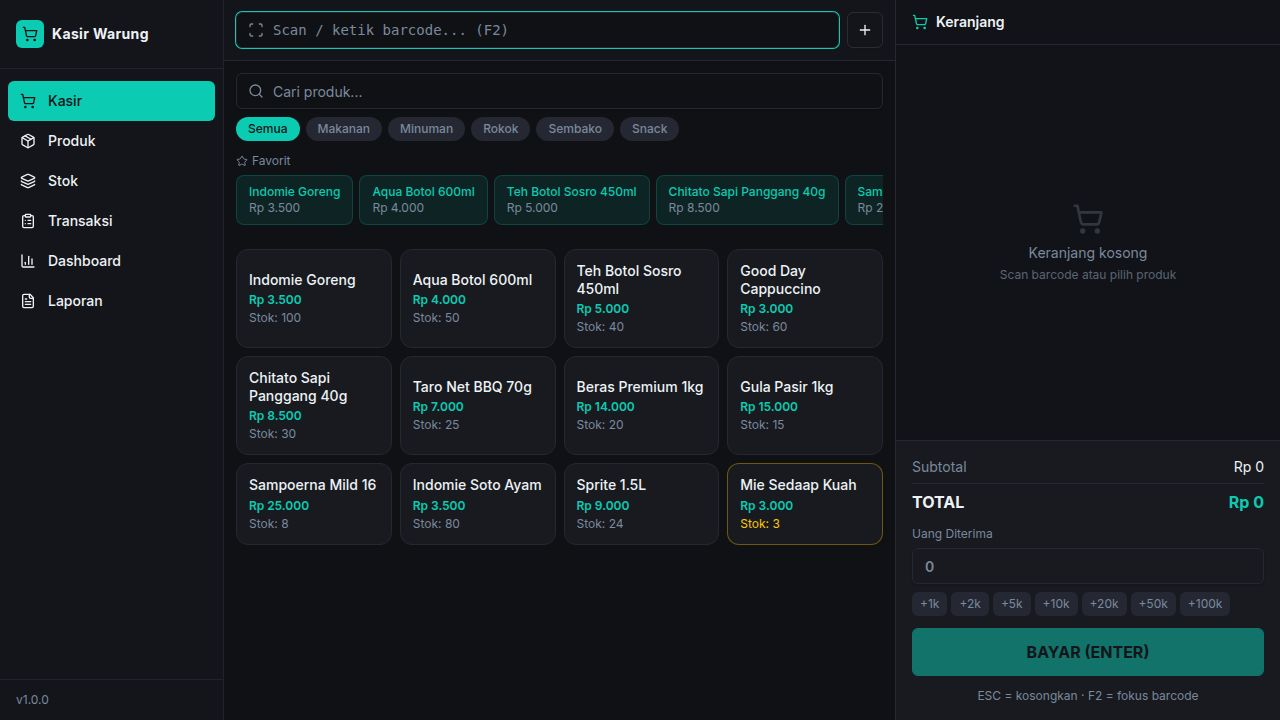
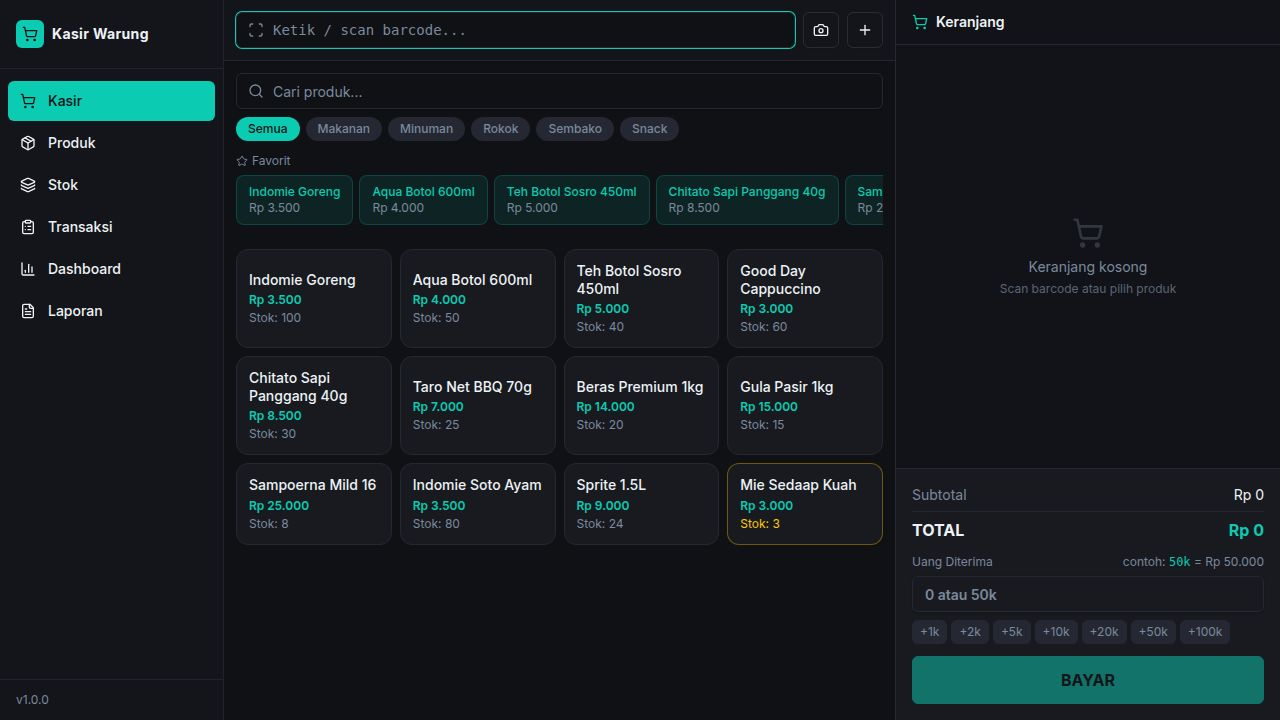
Improve camera permission handling for barcode scanner
Introduce a new "permission" phase to prompt users for camera access before attempting to open the camera, enhancing user experience and resolving issues with the permission dialog not appearing.

Replit-Commit-Author: Agent
Replit-Commit-Session-Id: a1ce3a82-6473-4853-bd8a-2a7796b66f26
Replit-Commit-Checkpoint-Type: full_checkpoint
Replit-Commit-Event-Id: 70f1645a-78cc-4b64-8d3c-5172f48297da
Replit-Commit-Screenshot-Url: https://storage.googleapis.com/screenshot-production-us-central1/b5225972-dac7-4cce-bdec-5e17aa14c93a/a1ce3a82-6473-4853-bd8a-2a7796b66f26/zLTc4fO
Replit-Helium-Checkpoint-Created: true

diff --git a/artifacts/kasir-warung/src/components/BarcodeScanner.tsx b/artifacts/kasir-warung/src/components/BarcodeScanner.tsx
@@ -1,6 +1,6 @@
 import { useEffect, useRef, useState, useCallback } from "react";
 import { BrowserMultiFormatReader } from "@zxing/browser";
-import { X, Camera, Loader2, AlertCircle, RefreshCw } from "lucide-react";
+import { X, Camera, Loader2, AlertCircle, RefreshCw, ShieldCheck } from "lucide-react";
 import { Dialog, DialogContent } from "@/components/ui/dialog";
 import { Button } from "@/components/ui/button";
 
@@ -11,12 +11,14 @@ interface BarcodeScannerProps {
   title?: string;
 }
 
+type Phase = "permission" | "loading" | "ready" | "error";
+
 export function BarcodeScanner({ open, onScan, onClose, title = "Scan Barcode" }: BarcodeScannerProps) {
   const videoRef = useRef<HTMLVideoElement>(null);
   const readerRef = useRef<BrowserMultiFormatReader | null>(null);
   const scannedRef = useRef(false);
   const mountedRef = useRef(false);
-  const [status, setStatus] = useState<"loading" | "ready" | "error">("loading");
+  const [phase, setPhase] = useState<Phase>("permission");
   const [errorMsg, setErrorMsg] = useState("");
 
   const cleanup = useCallback(() => {
@@ -27,25 +29,27 @@ export function BarcodeScanner({ open, onScan, onClose, title = "Scan Barcode" }
   const startScanner = useCallback(async () => {
     if (!videoRef.current || !mountedRef.current) return;
     scannedRef.current = false;
-    setStatus("loading");
+    setPhase("loading");
     setErrorMsg("");
 
     try {
       const reader = new BrowserMultiFormatReader();
       readerRef.current = reader;
 
-      // Listen for video playing event — most reliable "ready" signal on Android
       const video = videoRef.current;
-      const onPlaying = () => {
-        if (mountedRef.current) setStatus("ready");
-      };
-      video.addEventListener("playing", onPlaying, { once: true });
-      // Fallback: force ready after 4s even if playing event doesn't fire
-      const readyTimer = setTimeout(() => {
-        if (mountedRef.current) setStatus("ready");
-      }, 4000);
 
-      // Let ZXing handle getUserMedia — use decodeFromConstraints for better mobile compat
+      // Transition to ready as soon as video has data
+      const onCanPlay = () => {
+        if (mountedRef.current) setPhase("ready");
+      };
+      video.addEventListener("canplay", onCanPlay, { once: true });
+      video.addEventListener("playing", onCanPlay, { once: true });
+
+      // Fallback: force ready after 3s
+      const readyTimer = setTimeout(() => {
+        if (mountedRef.current) setPhase("ready");
+      }, 3000);
+
       await reader.decodeFromConstraints(
         {
           video: {
@@ -64,18 +68,15 @@ export function BarcodeScanner({ open, onScan, onClose, title = "Scan Barcode" }
             scannedRef.current = true;
             controls?.stop();
             clearTimeout(readyTimer);
-            const code = result.getText();
-            onScan(code);
+            onScan(result.getText());
             onClose();
           }
-          // Suppress expected NotFoundException spam (no barcode in frame)
           void err;
         }
       );
 
       clearTimeout(readyTimer);
-      // decodeFromConstraints resolves when video stream is set up
-      if (mountedRef.current) setStatus("ready");
+      if (mountedRef.current) setPhase("ready");
     } catch (err: unknown) {
       if (!mountedRef.current) return;
       cleanup();
@@ -85,13 +86,12 @@ export function BarcodeScanner({ open, onScan, onClose, title = "Scan Barcode" }
       } else if (msg.includes("NotFound") || msg.includes("NotReadable")) {
         setErrorMsg("Kamera tidak dapat diakses. Pastikan kamera tidak dipakai aplikasi lain.");
       } else if (msg.includes("OverconstrainedError")) {
-        // Retry without facingMode constraint
         retryWithAnyCamera();
         return;
       } else {
         setErrorMsg(`Gagal membuka kamera.\n\n${msg}`);
       }
-      setStatus("error");
+      setPhase("error");
     }
   }, [onScan, onClose, cleanup]);
 
@@ -113,22 +113,34 @@ export function BarcodeScanner({ open, onScan, onClose, title = "Scan Barcode" }
           }
         }
       );
-      if (mountedRef.current) setStatus("ready");
-    } catch (err) {
+      if (mountedRef.current) setPhase("ready");
+    } catch {
       if (!mountedRef.current) return;
       cleanup();
       setErrorMsg("Tidak dapat membuka kamera apa pun di perangkat ini.");
-      setStatus("error");
+      setPhase("error");
     }
   }, [onScan, onClose, cleanup]);
 
+  // Check existing permission on open
   useEffect(() => {
     mountedRef.current = open;
     if (open) {
-      startScanner();
+      setPhase("permission");
+      setErrorMsg("");
+      // If permission already granted, skip the prompt screen
+      if (navigator.permissions) {
+        navigator.permissions.query({ name: "camera" as PermissionName }).then((result) => {
+          if (result.state === "granted" && mountedRef.current) {
+            startScanner();
+          }
+        }).catch(() => {
+          // permissions API not supported, stay on prompt screen
+        });
+      }
     } else {
       cleanup();
-      setStatus("loading");
+      setPhase("permission");
     }
     return () => {
       mountedRef.current = false;
@@ -155,71 +167,100 @@ export function BarcodeScanner({ open, onScan, onClose, title = "Scan Barcode" }
           </button>
         </div>
 
-        {/* Camera viewport */}
-        <div className="relative bg-black w-full" style={{ aspectRatio: "4/3" }}>
-          {/* Video always rendered so ref is available */}
-          <video
-            ref={videoRef}
-            className="w-full h-full object-cover"
-            playsInline
-            muted
-            autoPlay
-            style={{ display: status === "error" ? "none" : "block" }}
-          />
-
-          {/* Scan frame — shown when ready */}
-          {status === "ready" && (
-            <div className="absolute inset-0 flex items-center justify-center pointer-events-none">
-              <div className="relative w-56 h-44">
-                <div className="absolute top-0 left-0 w-8 h-8 border-t-[3px] border-l-[3px] border-primary" />
-                <div className="absolute top-0 right-0 w-8 h-8 border-t-[3px] border-r-[3px] border-primary" />
-                <div className="absolute bottom-0 left-0 w-8 h-8 border-b-[3px] border-l-[3px] border-primary" />
-                <div className="absolute bottom-0 right-0 w-8 h-8 border-b-[3px] border-r-[3px] border-primary" />
-                <div
-                  className="absolute left-1 right-1 h-0.5 bg-primary/80 rounded"
-                  style={{ animation: "scan 2s ease-in-out infinite" }}
-                />
-              </div>
-              <style>{`
-                @keyframes scan {
-                  0%   { top: 8px;  opacity: 0.5; }
-                  50%  { top: calc(100% - 8px); opacity: 1; }
-                  100% { top: 8px;  opacity: 0.5; }
-                }
-              `}</style>
+        {/* Permission prompt screen */}
+        {phase === "permission" && (
+          <div className="flex flex-col items-center justify-center gap-5 px-6 py-10 text-center bg-card">
+            <div className="w-20 h-20 rounded-full bg-primary/10 flex items-center justify-center">
+              <ShieldCheck className="w-10 h-10 text-primary" />
             </div>
-          )}
-
-          {/* Loading overlay */}
-          {status === "loading" && (
-            <div className="absolute inset-0 flex flex-col items-center justify-center gap-3 bg-black/80">
-              <Loader2 className="w-10 h-10 text-primary animate-spin" />
-              <p className="text-sm text-white">Membuka kamera...</p>
-              <p className="text-xs text-white/50 px-6 text-center">Izinkan akses kamera jika ada permintaan</p>
+            <div className="space-y-2">
+              <h3 className="font-semibold text-base">Izin Akses Kamera</h3>
+              <p className="text-sm text-muted-foreground leading-relaxed">
+                Aplikasi membutuhkan akses kamera untuk memindai barcode produk.
+              </p>
+              <p className="text-xs text-muted-foreground/70 leading-relaxed">
+                Saat browser meminta izin, pilih <span className="font-medium text-foreground">"Izinkan"</span> atau <span className="font-medium text-foreground">"Allow"</span>.
+              </p>
             </div>
-          )}
-
-          {/* Error overlay */}
-          {status === "error" && (
-            <div className="absolute inset-0 flex flex-col items-center justify-center gap-4 p-6 text-center bg-zinc-950">
-              <AlertCircle className="w-12 h-12 text-destructive flex-shrink-0" />
-              <p className="text-sm text-white leading-relaxed whitespace-pre-line">{errorMsg}</p>
-              <Button size="sm" variant="outline" onClick={startScanner} className="gap-2">
-                <RefreshCw className="w-4 h-4" /> Coba Lagi
+            <div className="flex flex-col gap-2 w-full">
+              <Button className="w-full gap-2" onClick={startScanner}>
+                <Camera className="w-4 h-4" />
+                Buka Kamera
+              </Button>
+              <Button variant="ghost" className="w-full" onClick={handleClose}>
+                Batal
               </Button>
             </div>
-          )}
-        </div>
+          </div>
+        )}
 
-        {/* Footer */}
-        <div className="px-4 py-3 bg-card border-t border-border">
-          <p className="text-xs text-muted-foreground text-center mb-3">
-            {status === "ready" ? "Arahkan kamera ke barcode produk" : "Menunggu kamera..."}
-          </p>
-          <Button variant="outline" className="w-full" onClick={handleClose}>
-            Batal
-          </Button>
-        </div>
+        {/* Camera viewport — only mount when not on permission screen */}
+        {phase !== "permission" && (
+          <div className="relative bg-black w-full" style={{ aspectRatio: "4/3" }}>
+            <video
+              ref={videoRef}
+              className="w-full h-full object-cover"
+              playsInline
+              muted
+              autoPlay
+              style={{ display: phase === "error" ? "none" : "block" }}
+            />
+
+            {/* Scan frame overlay */}
+            {phase === "ready" && (
+              <div className="absolute inset-0 flex items-center justify-center pointer-events-none">
+                <div className="relative w-56 h-44">
+                  <div className="absolute top-0 left-0 w-8 h-8 border-t-[3px] border-l-[3px] border-primary" />
+                  <div className="absolute top-0 right-0 w-8 h-8 border-t-[3px] border-r-[3px] border-primary" />
+                  <div className="absolute bottom-0 left-0 w-8 h-8 border-b-[3px] border-l-[3px] border-primary" />
+                  <div className="absolute bottom-0 right-0 w-8 h-8 border-b-[3px] border-r-[3px] border-primary" />
+                  <div
+                    className="absolute left-1 right-1 h-0.5 bg-primary/80 rounded"
+                    style={{ animation: "scan 2s ease-in-out infinite" }}
+                  />
+                </div>
+                <style>{`
+                  @keyframes scan {
+                    0%   { top: 8px;  opacity: 0.5; }
+                    50%  { top: calc(100% - 8px); opacity: 1; }
+                    100% { top: 8px;  opacity: 0.5; }
+                  }
+                `}</style>
+              </div>
+            )}
+
+            {/* Loading overlay */}
+            {phase === "loading" && (
+              <div className="absolute inset-0 flex flex-col items-center justify-center gap-3 bg-black/70">
+                <Loader2 className="w-10 h-10 text-primary animate-spin" />
+                <p className="text-sm text-white">Membuka kamera...</p>
+              </div>
+            )}
+
+            {/* Error overlay */}
+            {phase === "error" && (
+              <div className="absolute inset-0 flex flex-col items-center justify-center gap-4 p-6 text-center bg-zinc-950">
+                <AlertCircle className="w-12 h-12 text-destructive flex-shrink-0" />
+                <p className="text-sm text-white leading-relaxed whitespace-pre-line">{errorMsg}</p>
+                <Button size="sm" variant="outline" onClick={startScanner} className="gap-2">
+                  <RefreshCw className="w-4 h-4" /> Coba Lagi
+                </Button>
+              </div>
+            )}
+          </div>
+        )}
+
+        {/* Footer — hide on permission screen (already has buttons) */}
+        {phase !== "permission" && (
+          <div className="px-4 py-3 bg-card border-t border-border">
+            <p className="text-xs text-muted-foreground text-center mb-3">
+              {phase === "ready" ? "Arahkan kamera ke barcode produk" : "Menunggu kamera..."}
+            </p>
+            <Button variant="outline" className="w-full" onClick={handleClose}>
+              Batal
+            </Button>
+          </div>
+        )}
       </DialogContent>
     </Dialog>
   );